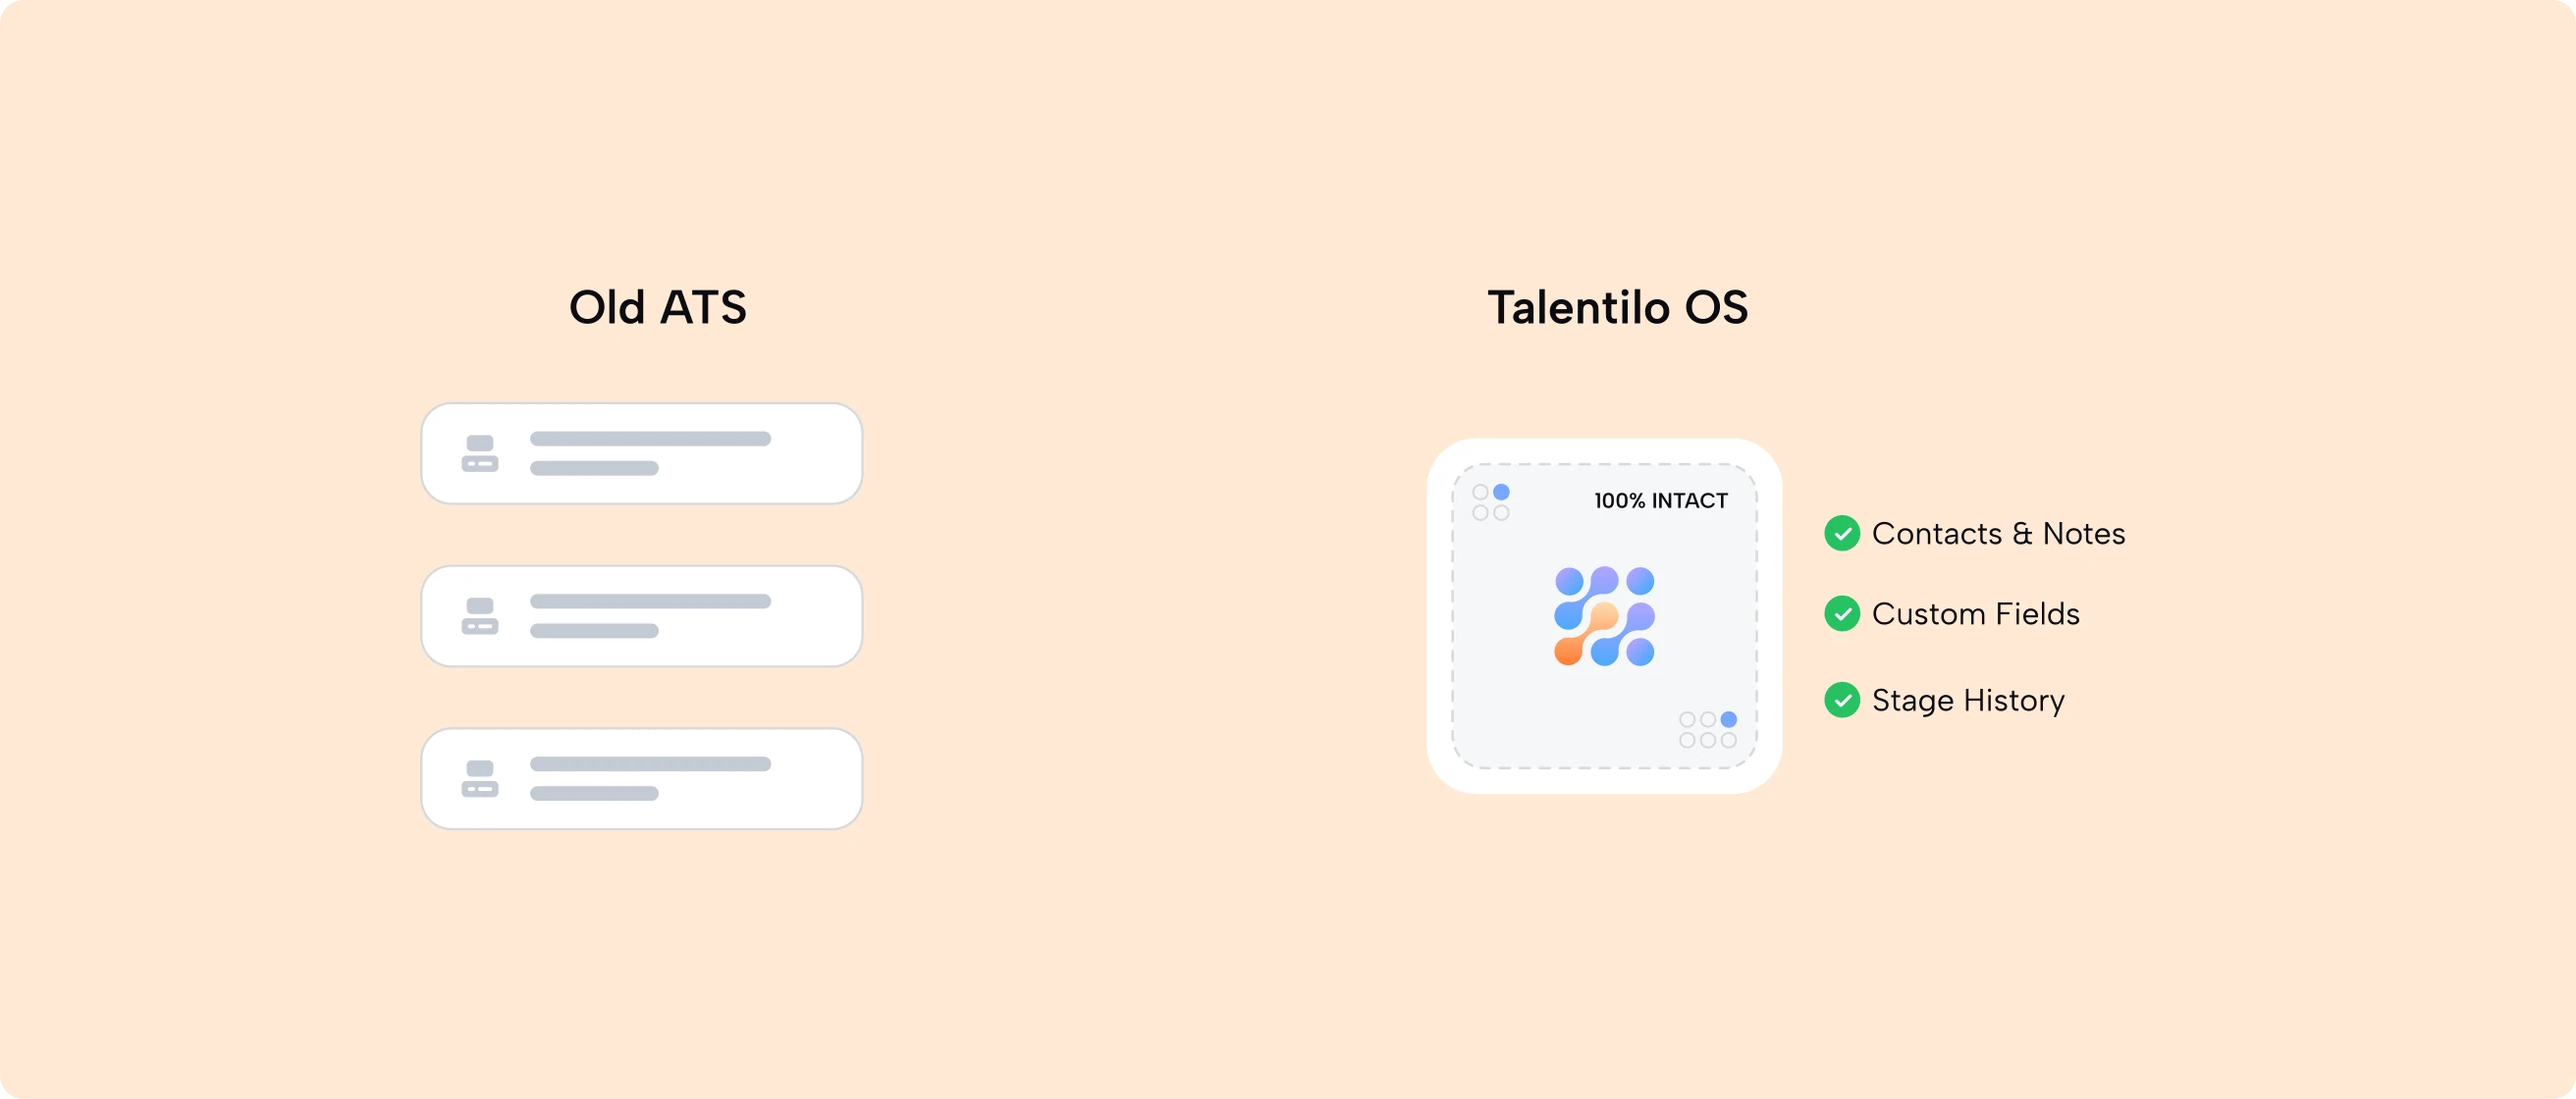
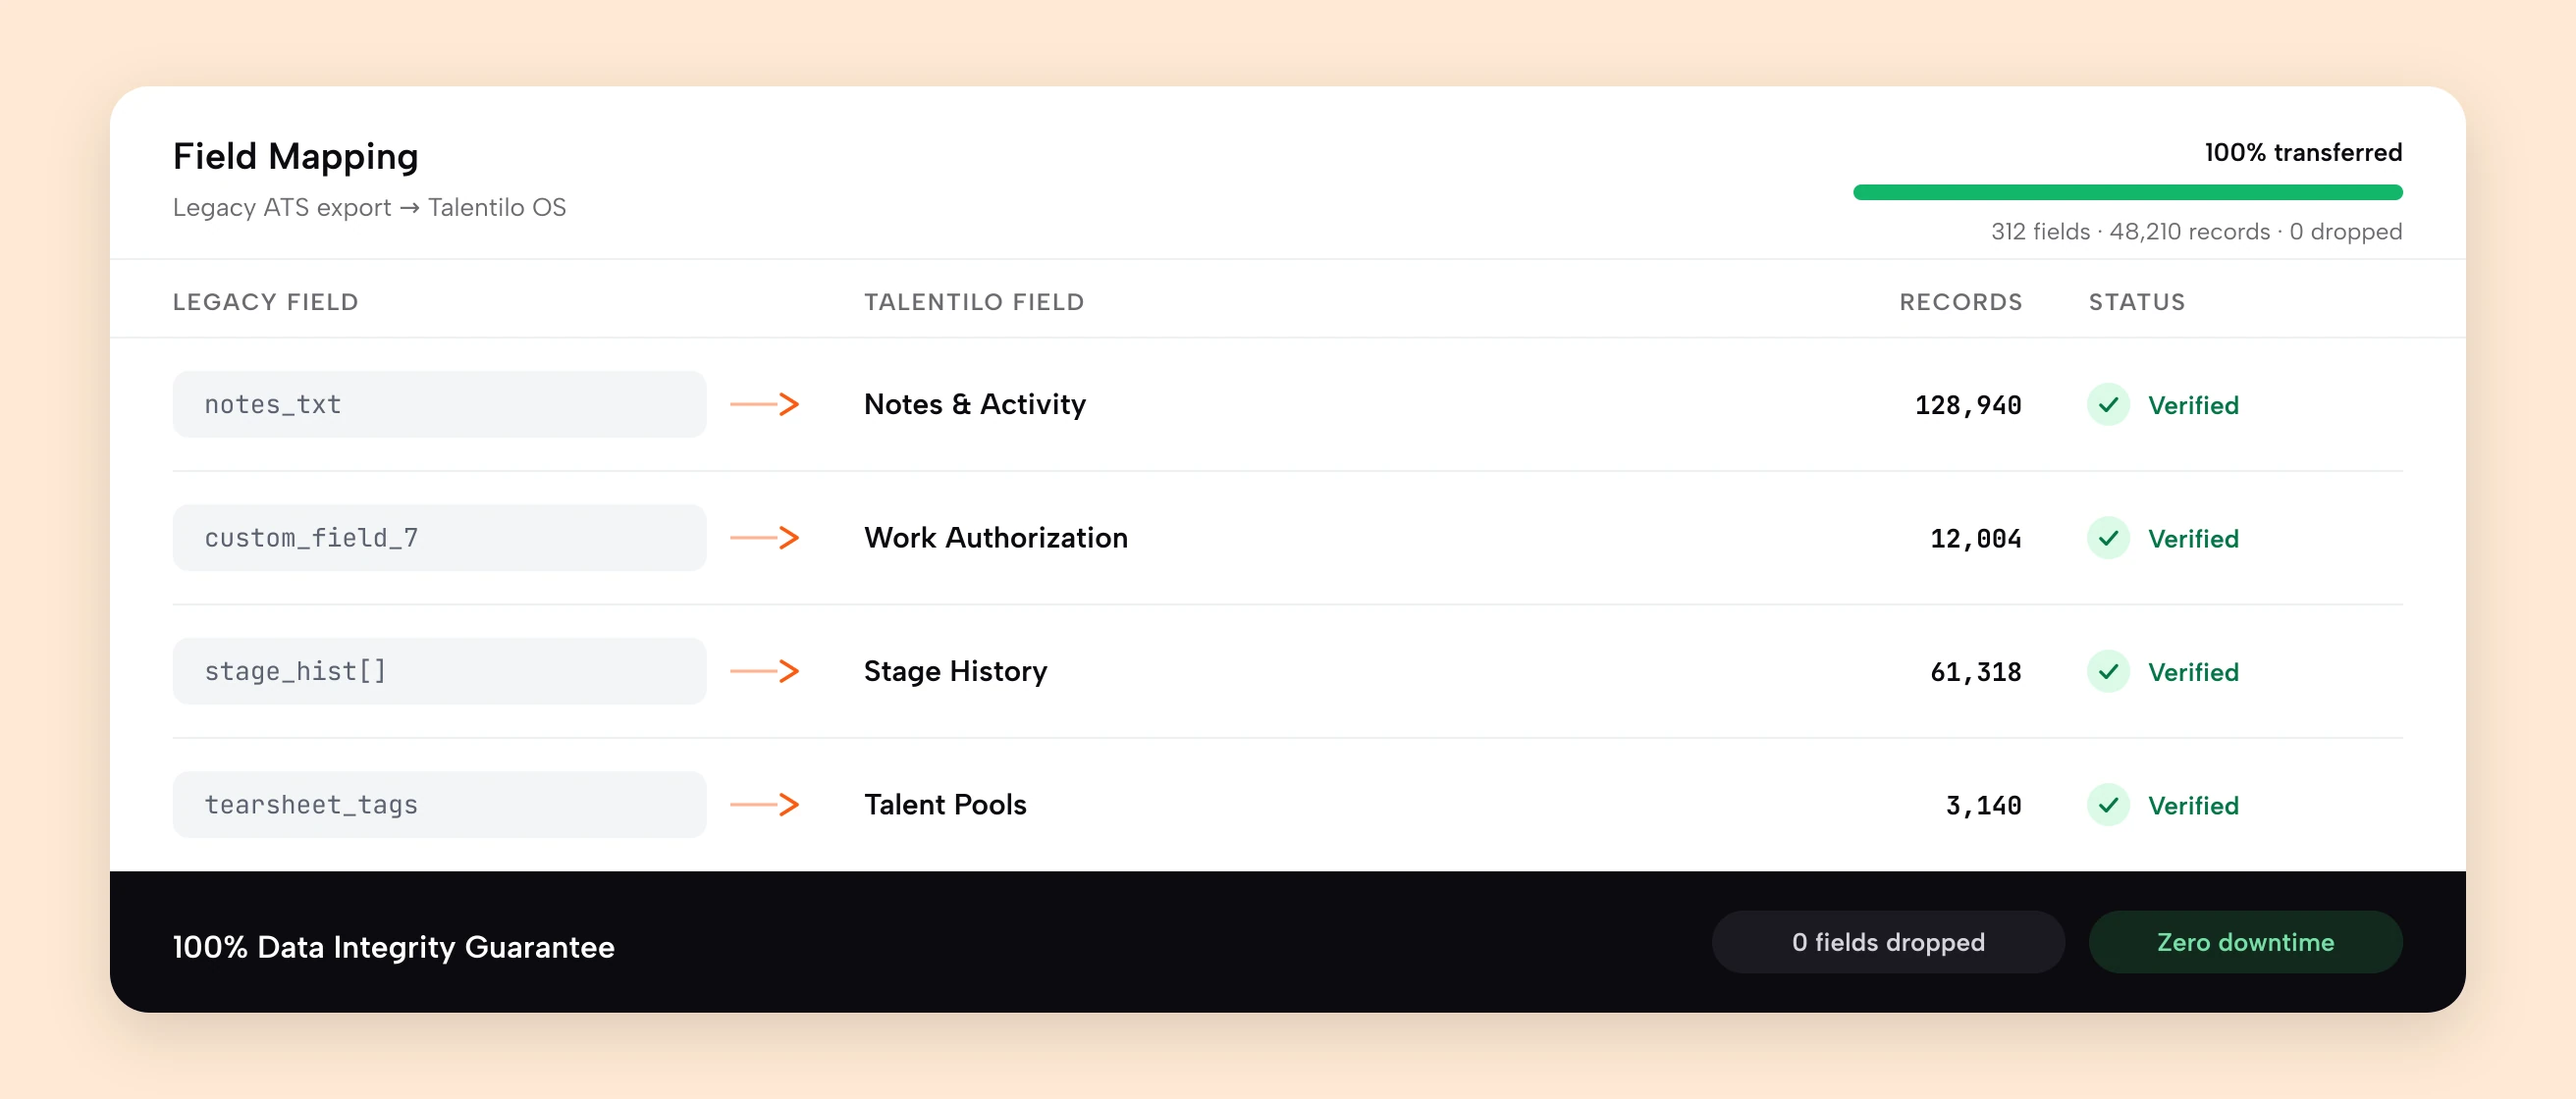
Redraw the migration hero as a field-level mapping ledger
The exported hero argued the page's promise backwards. The legacy side was
three grey skeleton rows, so the one thing /migration guarantees — that
nothing is lost — was drawn as nothing to lose, and "100% INTACT" sat on the
Talentilo card with no evidence under it. Two-fifths of the canvas was empty,
and the connectors had to be hand-patched into the page as an SVG overlay
because the offline exporter can't rasterise Figma CONNECTOR nodes.

A migration is only ever trusted at field level, so the artwork is now the
mapping table itself: the raw column names out of the legacy export on the
left, set in the mono face they are actually stored in, each landing on a
named Talentilo field with its own record count and a verified tick.
`custom_field_7` becoming "Work Authorization" is the row that carries the
argument — bespoke fields are exactly what agencies expect to lose in a
switch. An ink footer closes on the two claims the page makes in copy: 100%
data integrity and zero downtime.

Drawn at the same 1312x560 box on the same crusta-100 ground, so the hero
band's geometry and colour are unchanged. The connector overlay is deleted
along with the frame that needed it.

Claude-Session: https://claude.ai/code/session_01NiPpYH7FzHVYjD9oJqcgLh

diff --git a/src/app/migration/page.tsx b/src/app/migration/page.tsx
@@ -7,26 +7,6 @@ import { Creative } from '@/components/ui/Creative';
 import { Section } from '@/components/ui/Section';
 import { SectionHeading } from '@/components/ui/SectionHeading';
 
-/**
- * The file routes each "Old ATS" row into the Talentilo OS card with a dashed connector — but
- * those are Figma CONNECTOR nodes, which the offline exporter can't rasterize, so they're absent
- * from the exported artwork. Redrawn here at the file's own coordinates (a 1312x560 canvas)
- * rather than left blank.
- */
-function TransferConnectors() {
-  return (
-    <svg viewBox="0 0 1312 560" className="size-full" fill="none">
-      <path d="M440,234 C584,234 584,313 728,313" stroke="#c3cad4" strokeWidth="1.5" strokeDasharray="4 4" strokeLinecap="round" />
-      <path d="M440,313 L728,313" stroke="#c3cad4" strokeWidth="1.5" strokeDasharray="4 4" strokeLinecap="round" />
-      <path d="M440,392 C584,392 584,313 728,313" stroke="#c3cad4" strokeWidth="1.5" strokeDasharray="4 4" strokeLinecap="round" />
-      <circle cx="440" cy="234" r="3" fill="#c3cad4" />
-      <circle cx="440" cy="313" r="3" fill="#c3cad4" />
-      <circle cx="440" cy="392" r="3" fill="#c3cad4" />
-      <circle cx="728" cy="313" r="5" fill="#fdfcff" stroke="#c3cad4" strokeWidth="1.5" />
-    </svg>
-  );
-}
-
 export const metadata: Metadata = {
   title: 'Migration',
   description:
@@ -60,7 +40,6 @@ export default function MigrationPage() {
         cta={{ label: 'Plan Your Switch', href: '/contact' }}
         note="100% Data Integrity Guarantee"
         creative="mg-transfer"
-        overlay={<TransferConnectors />}
       />
 
       <Section>

diff --git a/src/data/creatives.ts b/src/data/creatives.ts
@@ -144,15 +144,6 @@ export const creatives = {
     "designHeight": 536,
     "alt": "AI capacity absorbing an overnight application spike"
   },
-  "mg-transfer": {
-    "src": "/figma/creatives/mg-transfer.webp",
-    "fallback": "/figma/creatives/mg-transfer.png",
-    "width": 2624,
-    "height": 1120,
-    "designWidth": 1312,
-    "designHeight": 560,
-    "alt": "Data moving from a legacy ATS into Talentilo"
-  },
   "mg-card-bullhorn": {
     "src": "/figma/creatives/mg-card-bullhorn.webp",
     "fallback": "/figma/creatives/mg-card-bullhorn.png",
@@ -278,6 +269,15 @@ export const creatives = {
     "designWidth": 588,
     "designHeight": 536,
     "alt": "A pending-review queue listing each job with its client and how long it has waited"
+  },
+  "mg-transfer": {
+    "src": "/figma/creatives/mg-transfer.webp",
+    "fallback": "/figma/creatives/mg-transfer.png",
+    "width": 2624,
+    "height": 1120,
+    "designWidth": 1312,
+    "designHeight": 560,
+    "alt": "A field-level migration ledger: each legacy ATS column mapped onto its Talentilo field, with the record count carried across and a verified tick beside it"
   },
   "ti-boolean-legacy": {
     "src": "/figma/creatives/ti-boolean-legacy.webp",
